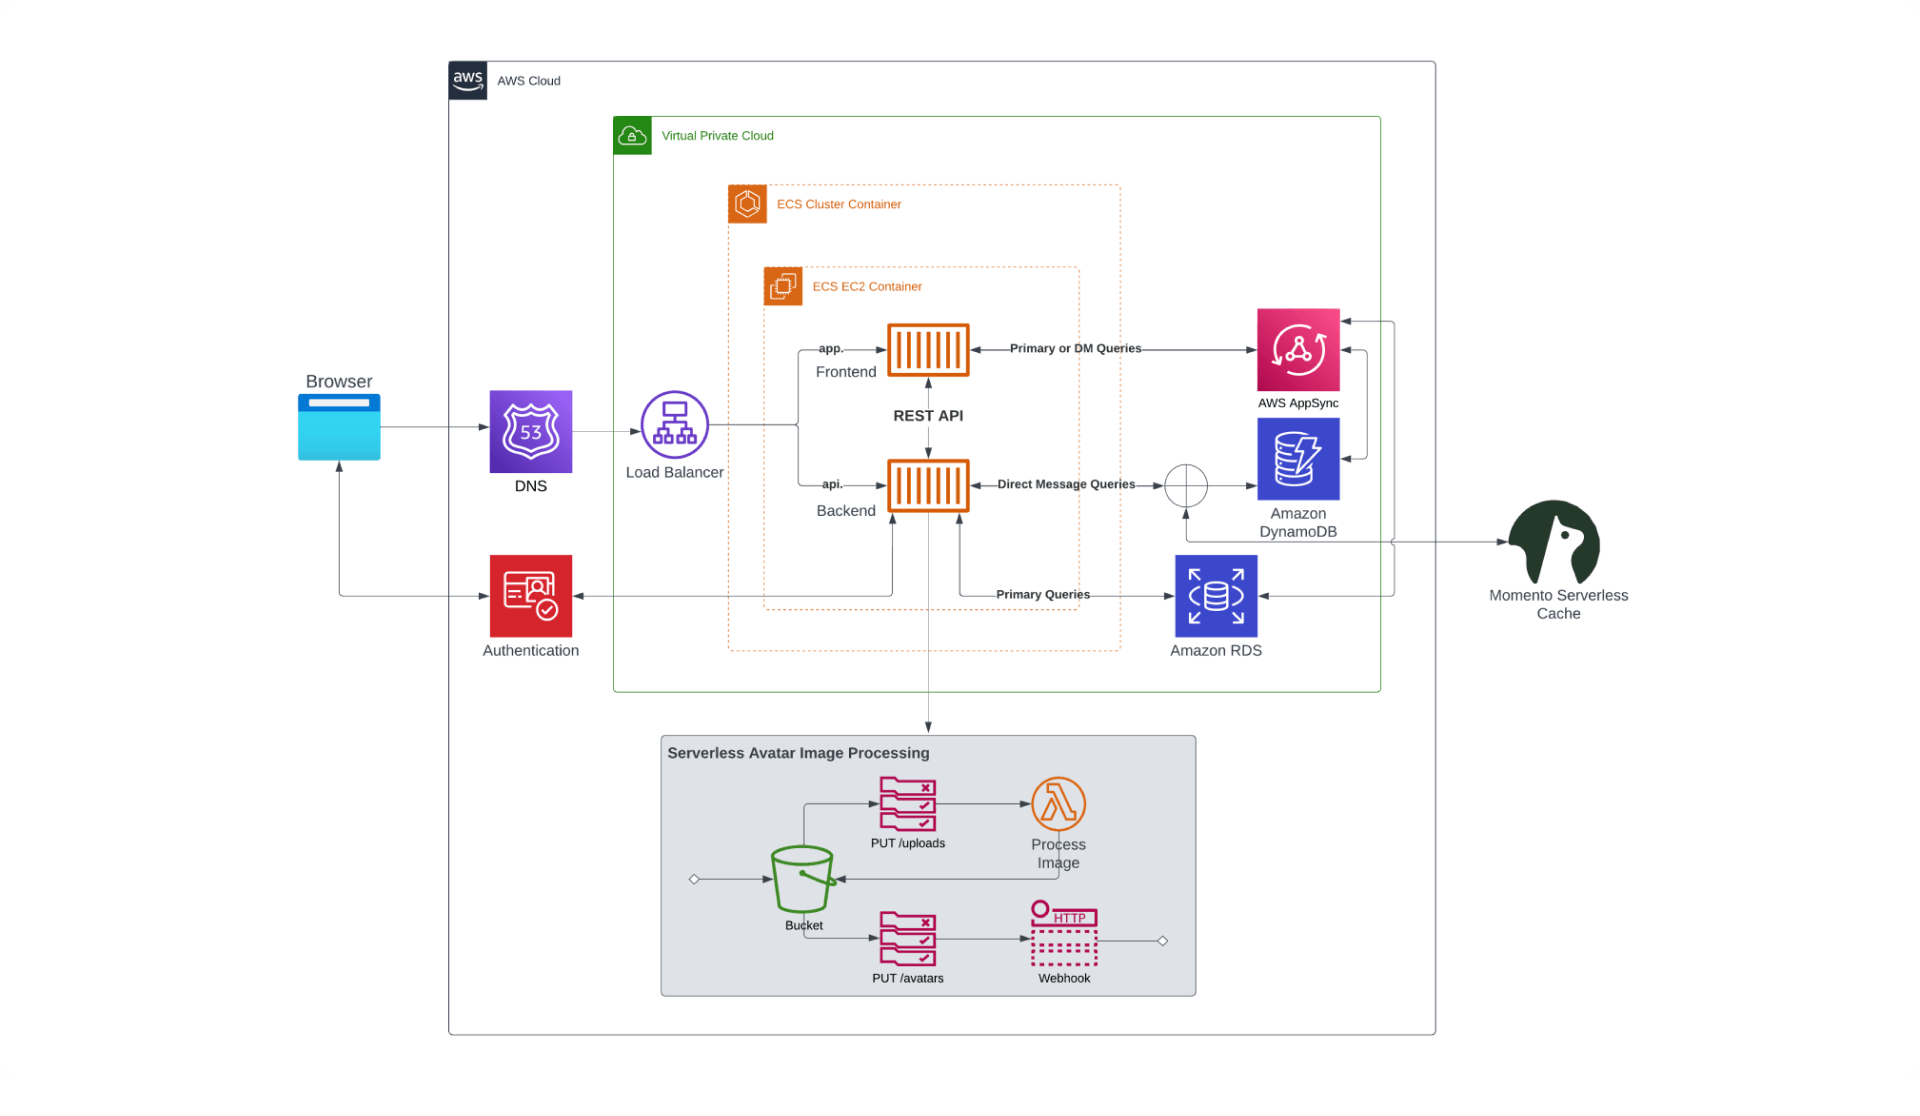
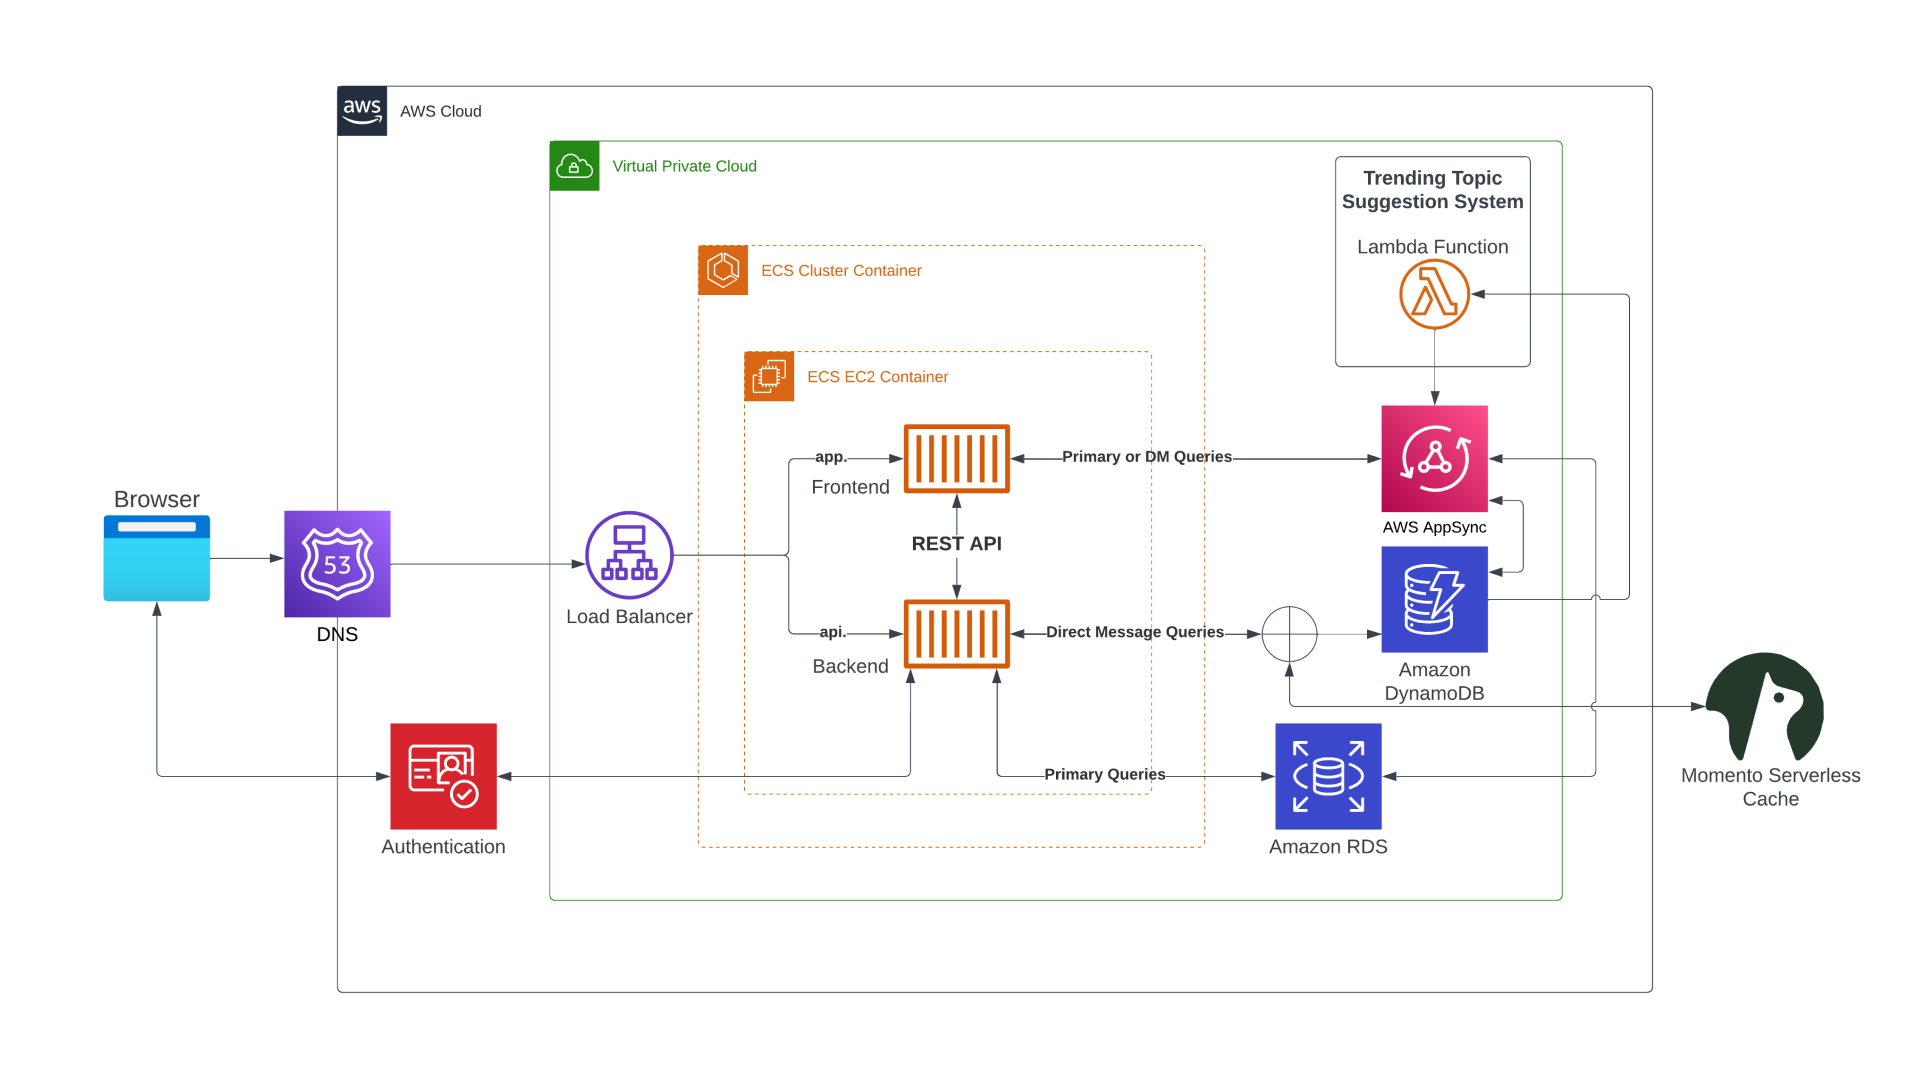
logical design update

diff --git a/journal/week0.md b/journal/week0.md
@@ -116,6 +116,8 @@ Create a conceptual design or napkin design of the project.
 
 ![curddur napkin design](media/week0/cruddur-napkin.png)
 
+I made my own additions to the conceptual diagram by including systems to suggest follow users and a trending topic page.
+
 ### Create Logical Design
 
 - Create a logical design using AWS icons, making sure to keep the designs consistent.
@@ -135,6 +137,12 @@ Create a conceptual design or napkin design of the project.
 ![Logical Design](media/week0/crudder-logical.png)
 
 ### [Lucid Chart Design File Link ](https://lucid.app/lucidchart/1c59d211-6a78-496e-bb86-1db0faf0f6a1/edit?viewport_loc=-1416%2C111%2C3751%2C1823%2Cyv5w6~Ut2Wm0&invitationId=inv_27a0a80d-9325-4670-b7ec-59ff707f157e")
+
+In this logical diagram I have added a lambda based trending topic suggestion system which runs on frequent intervals, sorts trending topic by most used and then updates the trending page.  
+
+This is one of the feature I use the most on twitter, so why not have it here.
+
+I have not added the Serverless Avatar Image Processing pipeline since it is not confirmed to be a part of the project as of now.
 
 <br>
 
